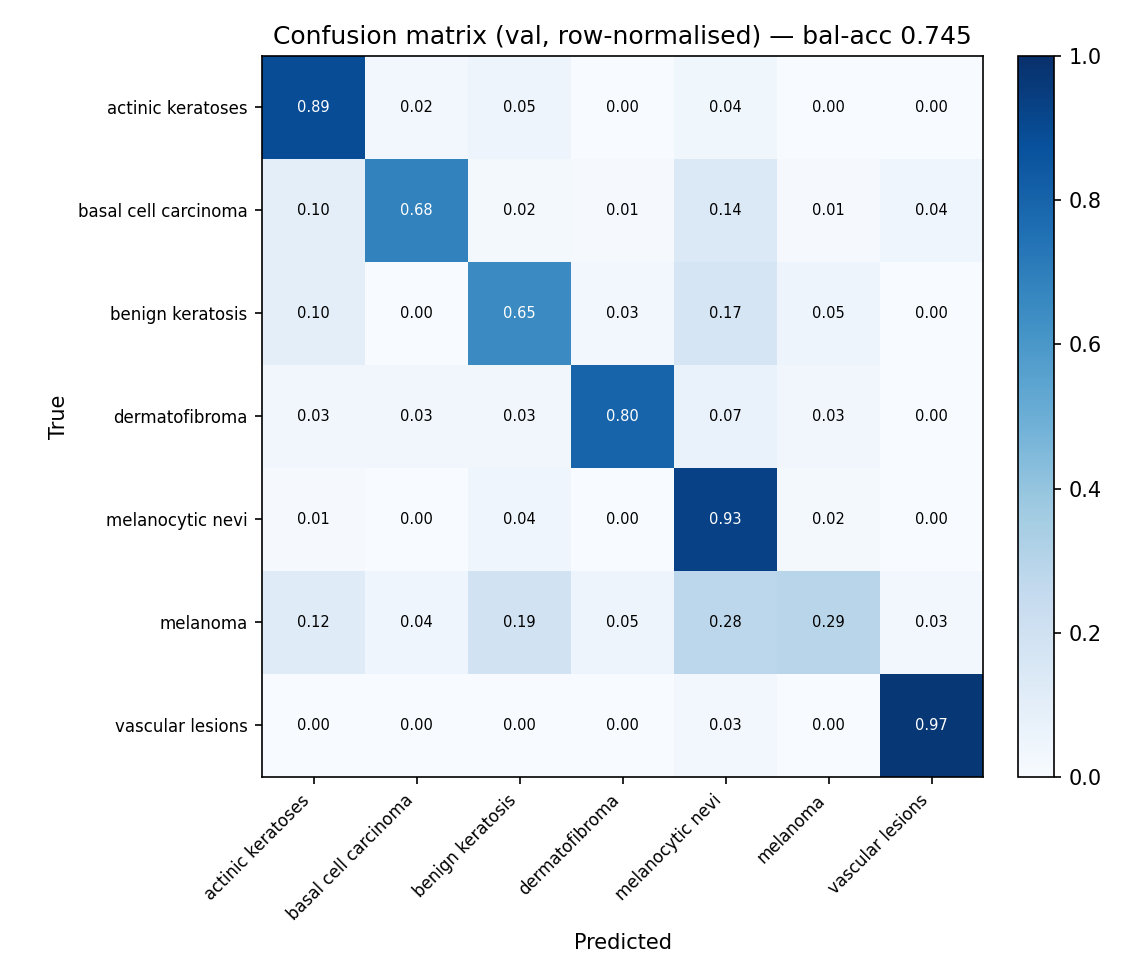
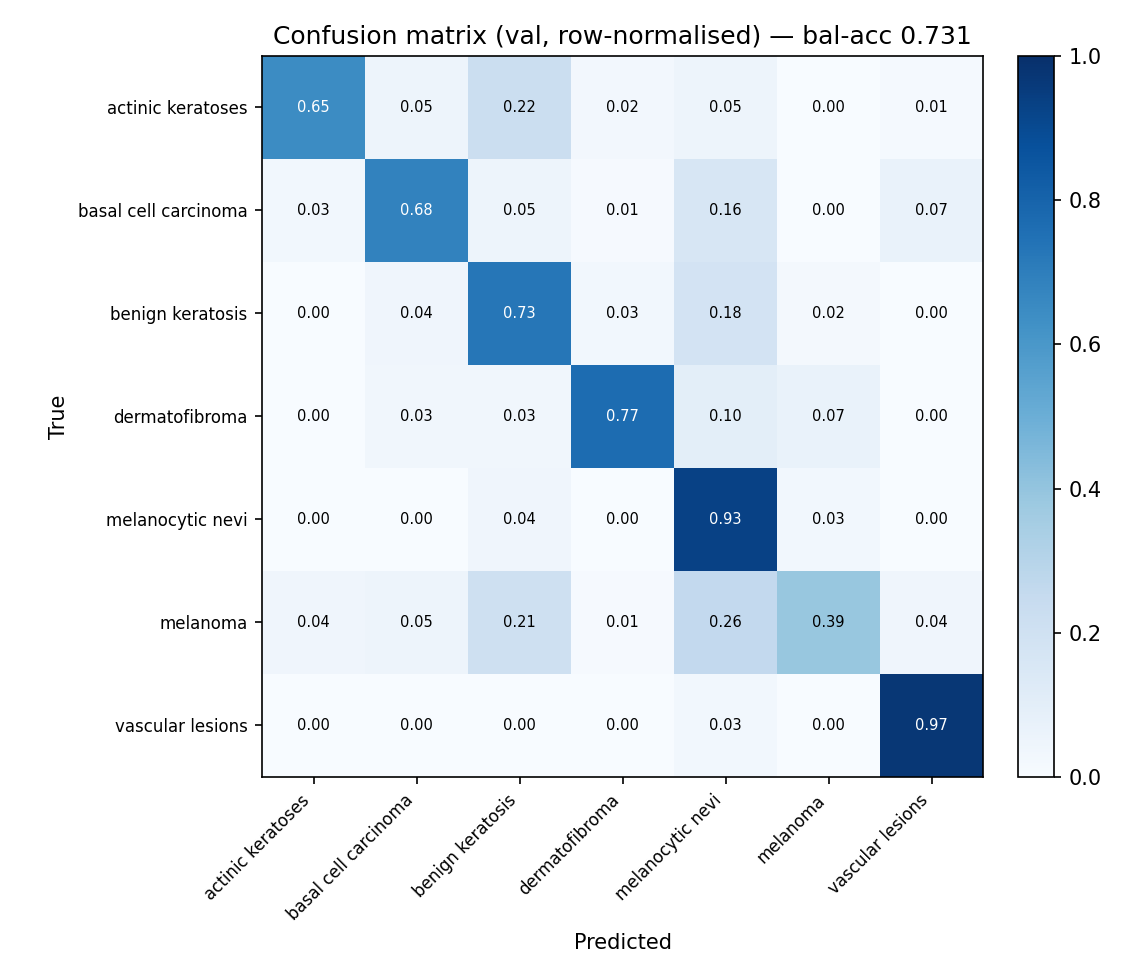
Skin: promote imbalance-corrected V2-S; refresh analysis + docs
New Kaggle run trained with logit adjustment + cRT on. Promoted it; archived the
plain-CE V2-S as results/archive_efficientnet_v2_s_baseline/ for comparison.

Measured effect on the leakage-free lesion-grouped Kaggle split:
- balanced accuracy 0.791 -> 0.829
- melanoma recall 0.29 -> 0.39 (the clinically important gain)
- ECE 0.088 -> 0.071
Logit adjustment did the work (best epoch in phase 2); cRT matched but didn't beat
it, so the phase-2 checkpoint was kept.

Re-ran 04_analysis.py and refreshed the five tracked figures. README/CLAUDE.md
updated with the new numbers, the baseline-vs-corrected comparison, and an honest
new caveat: on 04_analysis.py the corrected model goes confidently wrong under
heavy darkening (entropy collapses 0.37 -> 0.03 while accuracy falls to chance),
unlike the baseline — likely the logit-adjusted prior saturating on far-OOD dark
inputs; fix is brightness/contrast train augmentation.

diff --git a/skin/README.md b/skin/README.md
@@ -81,22 +81,27 @@ compensates for the imbalance.
 
 The classifier is an **ImageNet-pretrained EfficientNet** with its 1000-class
 head replaced by a fresh 7-class linear layer. The promoted model is
-**EfficientNetV2-S @ 384px**; an earlier **EfficientNet-B3 @ 300px** is kept
-archived under `results/archive_efficientnet_b3/`.
+**EfficientNetV2-S @ 384px**, trained with the imbalance correctors described
+[below](#combating-class-imbalance). Two earlier checkpoints are kept for
+comparison: the plain-CE V2-S baseline (`results/archive_efficientnet_v2_s_baseline/`)
+and an EfficientNet-B3 (`results/archive_efficientnet_b3/`).
 
-| | Promoted (current) | Previous (archived) |
-|---|---|---|
-| Backbone | **EfficientNetV2-S** | EfficientNet-B3 |
-| Input resolution | 384×384 | 300×300 |
-| Parameters | ~21 M | ~12 M |
-| Val balanced acc | **0.745** | 0.874 |
+| | Promoted (V2-S + LA/cRT) | V2-S baseline (plain CE) | B3 |
+|---|---|---|---|
+| Backbone | **EfficientNetV2-S** | EfficientNetV2-S | EfficientNet-B3 |
+| Input resolution | 384×384 | 384×384 | 300×300 |
+| Imbalance handling | logit adjustment + cRT | class-weighted CE | class-weighted CE |
+| Kaggle grouped-split val bal-acc | **0.829** | 0.791 | — |
+| Melanoma recall (local val) | **0.39** | 0.29 | 0.45 |
 
-The B3 figures came from a small capped local validation set; the V2-S model was
-trained on Kaggle against a larger, leakage-free `lesion_id`-grouped split (val
-balanced accuracy 0.791 there). The 0.745 above is the same offline analysis
-re-run on that local capped val set, so the two columns are directly comparable —
-V2-S trades a little headline accuracy on this particular slice for a much
-better-behaved uncertainty signal (see [robustness](#robustness-under-perturbation)).
+The headline number is the **leakage-free, `lesion_id`-grouped** Kaggle validation
+split: the imbalance correctors lifted it from **0.791 → 0.829** and, more
+importantly for a cancer screen, raised melanoma recall from 0.29 to 0.39. (The B3
+trained on a small *balanced, capped* subset, so its grouped-split number isn't
+comparable — its 0.874 in earlier docs was on the local capped val set.) The
+offline `04_analysis.py` numbers below are computed on that local capped set, which
+is less trustworthy here because it overlaps the Kaggle training images; treat the
+grouped-split figures as the real generalisation estimate.
 
 ### Why EfficientNet
 
@@ -176,10 +181,11 @@ TPU is available.
 
 HAM10000 is heavily long-tailed — melanocytic nevi are ~67% of it, dermatofibroma
 ~1% — so on the **full** training set a plain cross-entropy model collapses toward
-the majority class (the promoted V2-S model's melanoma recall is only 0.29 for
-exactly this reason). The capping trick (`TRAIN_CAP`) fixes this by *discarding*
-majority images, which throws away data. The notebooks instead wire in two modern,
-better-targeted correctors, each independently toggleable in the config cell:
+the majority class (the plain-CE V2-S baseline's melanoma recall was only 0.29 for
+exactly this reason; the promoted model raises it to 0.39). The capping trick
+(`TRAIN_CAP`) fixes this by *discarding* majority images, which throws away data.
+The notebooks instead wire in two modern, better-targeted correctors, each
+independently toggleable in the config cell:
 
 **1. Logit adjustment** (Menon et al., [*Long-tail learning via logit
 adjustment*](https://arxiv.org/abs/2007.07314), ICLR 2021), `LOGIT_ADJUST_TAU`.
@@ -208,10 +214,22 @@ Other standard options not wired in — effective-number reweighting, focal/LDAM
 losses, MixUp/CutMix, per-class threshold tuning, and (the real fix for the rarest
 classes) more external data — are noted as future work.
 
-> **Note:** the *currently promoted* V2-S checkpoint predates these correctors — it
-> was trained with plain class-weighted CE — so the results below are the
-> pre-improvement baseline. Logit adjustment and cRT are wired in for the next
-> training run; re-run a notebook with the defaults to pick up both.
+**Measured effect.** The promoted model was trained with both correctors on
+(`LOGIT_ADJUST_TAU=1`, `CRT_EPOCHS=5`). Against the plain class-weighted-CE
+baseline (same backbone, same split, archived under
+`results/archive_efficientnet_v2_s_baseline/`), on the leakage-free `lesion_id`-grouped
+Kaggle validation split:
+
+| | Baseline (plain CE) | + logit adjustment + cRT |
+|---|---|---|
+| Grouped-split val balanced acc | 0.791 | **0.829** |
+| Melanoma recall (local val) | 0.29 | **0.39** |
+| Expected Calibration Error (local val) | 0.088 | **0.071** |
+
+Logit adjustment did most of the work (the best epoch was in phase 2); the cRT
+phase here matched but didn't beat it, so the phase-2 checkpoint was kept. The gain
+that matters most is **melanoma recall climbing from 0.29 to 0.39** — fewer missed
+cancers, exactly what correcting the nevi bias should buy.
 
 ### Training on Kaggle
 
@@ -250,23 +268,28 @@ lower `BATCH_SIZE` to 16 if you hit CUDA OOM at 384px.
 
 ## Results
 
-The promoted **EfficientNetV2-S** reaches **0.706 accuracy / 0.745 balanced
-accuracy** on the 547-image local validation set.
+The promoted **EfficientNetV2-S** reaches **0.829 balanced accuracy** on the
+leakage-free grouped Kaggle split (see [above](#combating-class-imbalance)). The
+figures below are the offline `04_analysis.py` run on the 547-image local capped
+val set, where it scores **0.700 accuracy / 0.731 balanced accuracy** — slightly
+below the plain-CE baseline's 0.745 *on this particular set*, which overlaps the
+Kaggle training images and so is the less reliable benchmark of the two.
 
 ![Per-class precision, recall and F1](results/figures/per_class_f1.png)
 
 ![Confusion matrix](results/figures/confusion_matrix.png)
 
-Per-class F1 ranges from 0.89 on vascular lesions down to 0.42 on melanoma. The
-most clinically important caveat is in that last number:
+Per-class F1 ranges from 0.84 on vascular lesions down to 0.53 on melanoma. The
+most clinically important number is melanoma recall:
 
-> **Melanoma recall is only 0.29** — the model *misses* most melanomas, usually
-> confusing them for benign nevi or keratoses. Its melanoma **precision** is high
-> (0.76), so when it *does* call melanoma it is usually right, but it is far too
-> conservative about raising the alarm. A real screening tool would need to trade
-> precision for recall here (e.g. a lower decision threshold or a recall-weighted
-> loss). This is exactly why the app foregrounds the full probability distribution
-> and an uncertainty warning rather than a single label.
+> **Melanoma recall is 0.39** (up from 0.29 before the imbalance correctors) — the
+> model still *misses* most melanomas, usually confusing them for benign nevi or
+> keratoses, but markedly less often than the plain-CE baseline. Its melanoma
+> **precision** stays high (0.85), so when it *does* call melanoma it is usually
+> right; it is still too conservative about raising the alarm. Pushing recall
+> further would mean per-class threshold tuning or a recall-weighted loss. This is
+> exactly why the app foregrounds the full probability distribution and an
+> uncertainty warning rather than a single label.
 
 ## Calibration & uncertainty
 
@@ -274,11 +297,12 @@ Are the predicted probabilities trustworthy? The reliability diagram bins
 predictions by confidence and plots confidence against actual accuracy; a
 perfectly calibrated model sits on the diagonal.
 
-![Reliability diagram, ECE 0.088](results/figures/reliability.png)
+![Reliability diagram, ECE 0.071](results/figures/reliability.png)
 
-**Expected Calibration Error is 0.088** — reasonably calibrated, with the curve
-sitting below the diagonal, meaning the model is mildly **overconfident**. Post-hoc
-**temperature scaling** (as in the galaxy project's task 7) would tighten this.
+**Expected Calibration Error is 0.071** (down from 0.088 for the plain-CE baseline)
+— reasonably calibrated, with the curve sitting below the diagonal, meaning the
+model is mildly **overconfident**. Post-hoc **temperature scaling** (as in the
+galaxy project's task 7) would tighten this further.
 
 A second view: predictive entropy (normalised to [0, 1]) split by whether the
 prediction was correct. A useful uncertainty signal should be low when the model
@@ -286,7 +310,7 @@ is right and high when it is wrong.
 
 ![Entropy of correct vs incorrect predictions](results/figures/uncertainty_split.png)
 
-It is: mean entropy is **0.27 on correct** predictions vs **0.51 on incorrect**
+It is: mean entropy is **0.30 on correct** predictions vs **0.55 on incorrect**
 ones. The app uses this same entropy to show a "low confidence" warning.
 
 ## Robustness under perturbation
@@ -299,21 +323,27 @@ flags the degraded inputs.
 
 ![Accuracy and uncertainty under perturbation](results/figures/robustness.png)
 
-All three corruptions now behave correctly: as severity rises, balanced accuracy
-falls toward chance (~0.14 for 7 classes) and mean uncertainty climbs in step, so
-the entropy signal flags every degraded input.
+As severity rises, balanced accuracy falls toward chance (~0.14 for 7 classes) for
+all three corruptions, but the uncertainty signal only tracks it for two of them:
 
-- **Gaussian noise**: accuracy 0.74 → 0.15, entropy 0.34 → 0.87.
-- **Blur**: accuracy 0.74 → 0.20, entropy 0.34 → 0.80.
-- **Darken**: accuracy 0.74 → 0.19, entropy 0.34 → 0.60.
+- **Gaussian noise**: accuracy 0.73 → 0.14, entropy 0.37 → 0.73 ✅ (uncertainty rises).
+- **Blur**: accuracy 0.73 → 0.14, entropy 0.37 → 0.88 ✅ (uncertainty rises).
+- **Darken**: accuracy 0.73 → 0.16, entropy 0.37 → **0.03** ❌ (uncertainty *collapses*).
 
-This is a meaningful improvement over the earlier EfficientNet-B3, whose
-uncertainty *dropped* under Gaussian noise — it became *confidently wrong*, the
-dangerous failure mode for a confidence-gated system. EfficientNetV2-S no longer
-exhibits that: accuracy and uncertainty move together across all three axes.
+So this model catches noise and blur — the entropy warning would flag those — but
+**under heavy darkening it becomes confidently wrong**: accuracy falls to near
+chance while it gets *more* certain, the dangerous failure mode for any
+confidence-gated system. Curiously this is the opposite of the corruptions the
+earlier checkpoints failed on (B3 broke under Gaussian noise; the plain-CE V2-S
+baseline handled all three). The likely cause is that the logit-adjusted loss bakes
+in the training-set prior, and on very dark, far-out-of-distribution inputs the
+network saturates toward one class rather than spreading probability. The natural
+fix is to add brightness/contrast corruption to the training augmentation (it is
+currently only mild jitter) so the model learns to distrust badly-lit images.
 
 This is the same "calibrated uncertainty under perturbations" question the galaxy
-project studies, reproduced on a medical-imaging model.
+project studies, reproduced on a medical-imaging model — including a clean example
+of a corruption that defeats the confidence signal.
 
 ## The web app
 

diff --git a/CLAUDE.md b/CLAUDE.md
@@ -47,17 +47,24 @@ plots) — local Mac (MPS) training is too slow/crash-prone for this:
 
 Keep the two notebooks' shared logic (head-swap, freeze, two-phase loop, early stopping) in
 sync, and keep both in sync with `skin/skin_model.replace_head`. The promoted model is
-**EfficientNetV2-S @ 384px** (trained on Kaggle, val balanced accuracy 0.791 on its
-lesion-grouped split; 0.745 on the local capped val set via `04_analysis.py`), which both
-notebooks default to. The previous **EfficientNet-B3 @ 300px** is archived under
-`skin/results/archive_efficientnet_b3/`. Architecture-agnostic: change `MODEL_NAME` /
-`IMG_SIZE` in the config cell to try ConvNeXt, Swin, ViT, etc. Set `FT_EPOCHS` high —
-`EARLY_STOP_PATIENCE` cuts it off when val stops improving.
+**EfficientNetV2-S @ 384px** trained on Kaggle **with the imbalance correctors on** (val
+balanced accuracy **0.829** on its lesion-grouped split; 0.731 on the local capped val set
+via `04_analysis.py`), which both notebooks default to. Two earlier checkpoints are archived
+for comparison: the plain-CE V2-S baseline (`skin/results/archive_efficientnet_v2_s_baseline/`,
+grouped-split 0.791) and EfficientNet-B3 (`skin/results/archive_efficientnet_b3/`).
+Architecture-agnostic: change `MODEL_NAME` / `IMG_SIZE` in the config cell to try ConvNeXt,
+Swin, ViT, etc. Set `FT_EPOCHS` high — `EARLY_STOP_PATIENCE` cuts it off when val stops
+improving.
 
 **Class-imbalance handling (both notebooks, config-gated).** HAM10000 is ~67% melanocytic
-nevi, which biases a plain-CE model toward the majority class (the promoted V2-S checkpoint
-*predates* these correctors and has melanoma recall ~0.29 as a result). Two methods are
-wired into the three-phase training loop and must be kept in sync across both notebooks:
+nevi, which biases a plain-CE model toward the majority class (the plain-CE V2-S baseline had
+melanoma recall ~0.29). The promoted model corrects this — grouped-split balanced accuracy
+0.791→0.829, melanoma recall 0.29→0.39, ECE 0.088→0.071. One caveat surfaced in
+`04_analysis.py`: the corrected model goes *confidently wrong* under heavy darkening (entropy
+collapses while accuracy falls to chance), unlike the baseline — likely the logit-adjusted
+prior saturating on far-OOD dark inputs; the fix is brightness/contrast train augmentation.
+Two methods are wired into the three-phase training loop and must be kept in sync across both
+notebooks:
 - **Logit adjustment** (`LOGIT_ADJUST_TAU`, default 1.0; Menon et al. 2021) — phases 1–2
   train on `logits + τ·log P(y)` via the `LogitAdjustedLoss` module. It *replaces*
   inverse-frequency class weighting (`τ>0` switches the weighted CE off; the two would
@@ -69,8 +76,8 @@ wired into the three-phase training loop and must be kept in sync across both no
   it only overwrites the checkpoint if val balanced accuracy improves.
 
 Set either knob to 0 to ablate. Both are documented in the README's *Combating class
-imbalance* section. The promoted model has **not** yet been retrained with them — doing so
-is the next experiment.
+imbalance* section. In the promoted run, logit adjustment did the work (best epoch was in
+phase 2); cRT matched but didn't beat it, so the phase-2 checkpoint was kept.
 
 ### Colab compute efficiency — what is already built in
 
